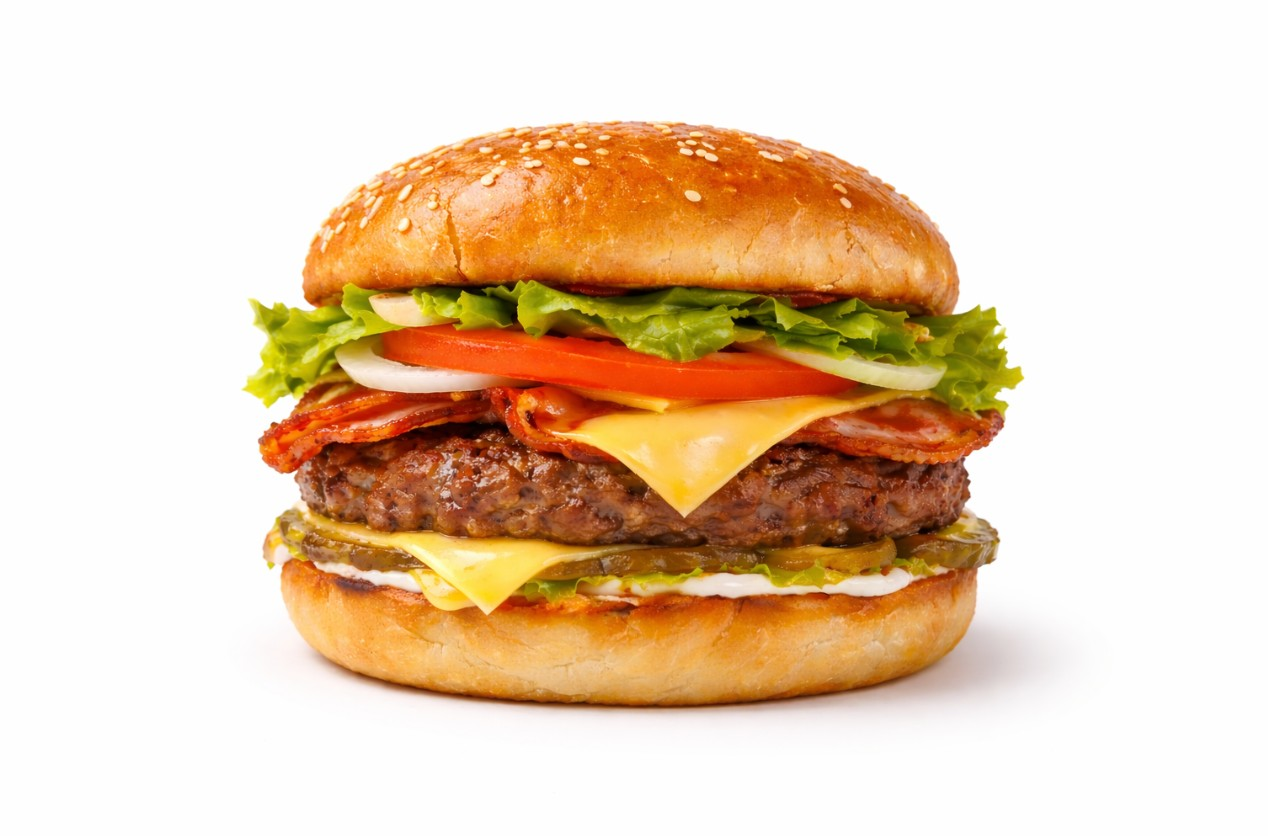
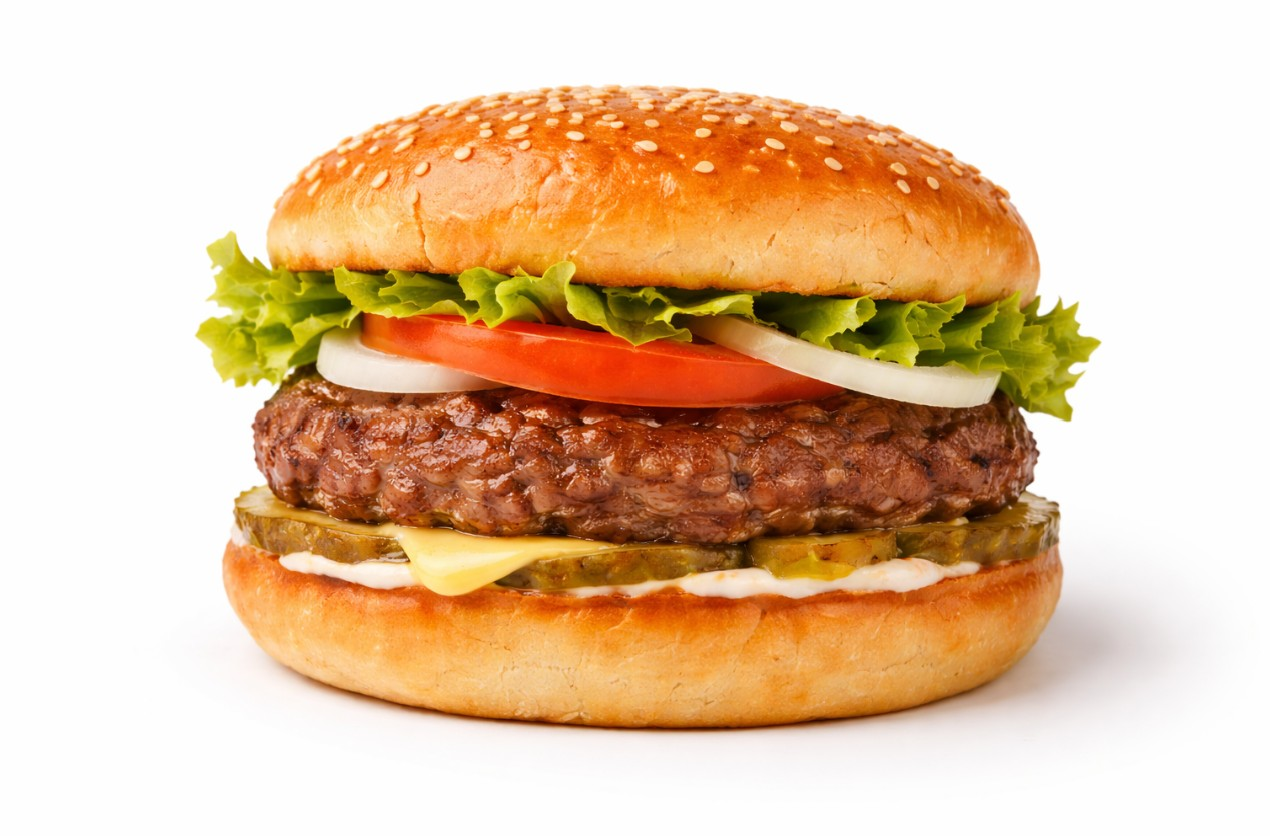
Katherine Supabase registration update

diff --git a/products.html b/products.html
@@ -329,7 +329,7 @@
 
       <div class="menu-card">
         <div class="menu-card-image">
-          <img src="images/menu/deluxe-burger.jpg" alt="Deluxe Burger">
+          <img src="images/deluxe-burger.jpg" alt="Deluxe Burger">
         </div>
         <div class="menu-card-content">
           <h4>Deluxe Burger</h4>
@@ -340,7 +340,7 @@
 
       <div class="menu-card">
         <div class="menu-card-image">
-          <img src="images/menu/deluxe-burger-platter.jpg" alt="Deluxe Burger Platter">
+          <img src="images/deluxe-burger-platter.jpg" alt="Deluxe Burger Platter">
         </div>
         <div class="menu-card-content">
           <h4>Deluxe Burger Platter</h4>
